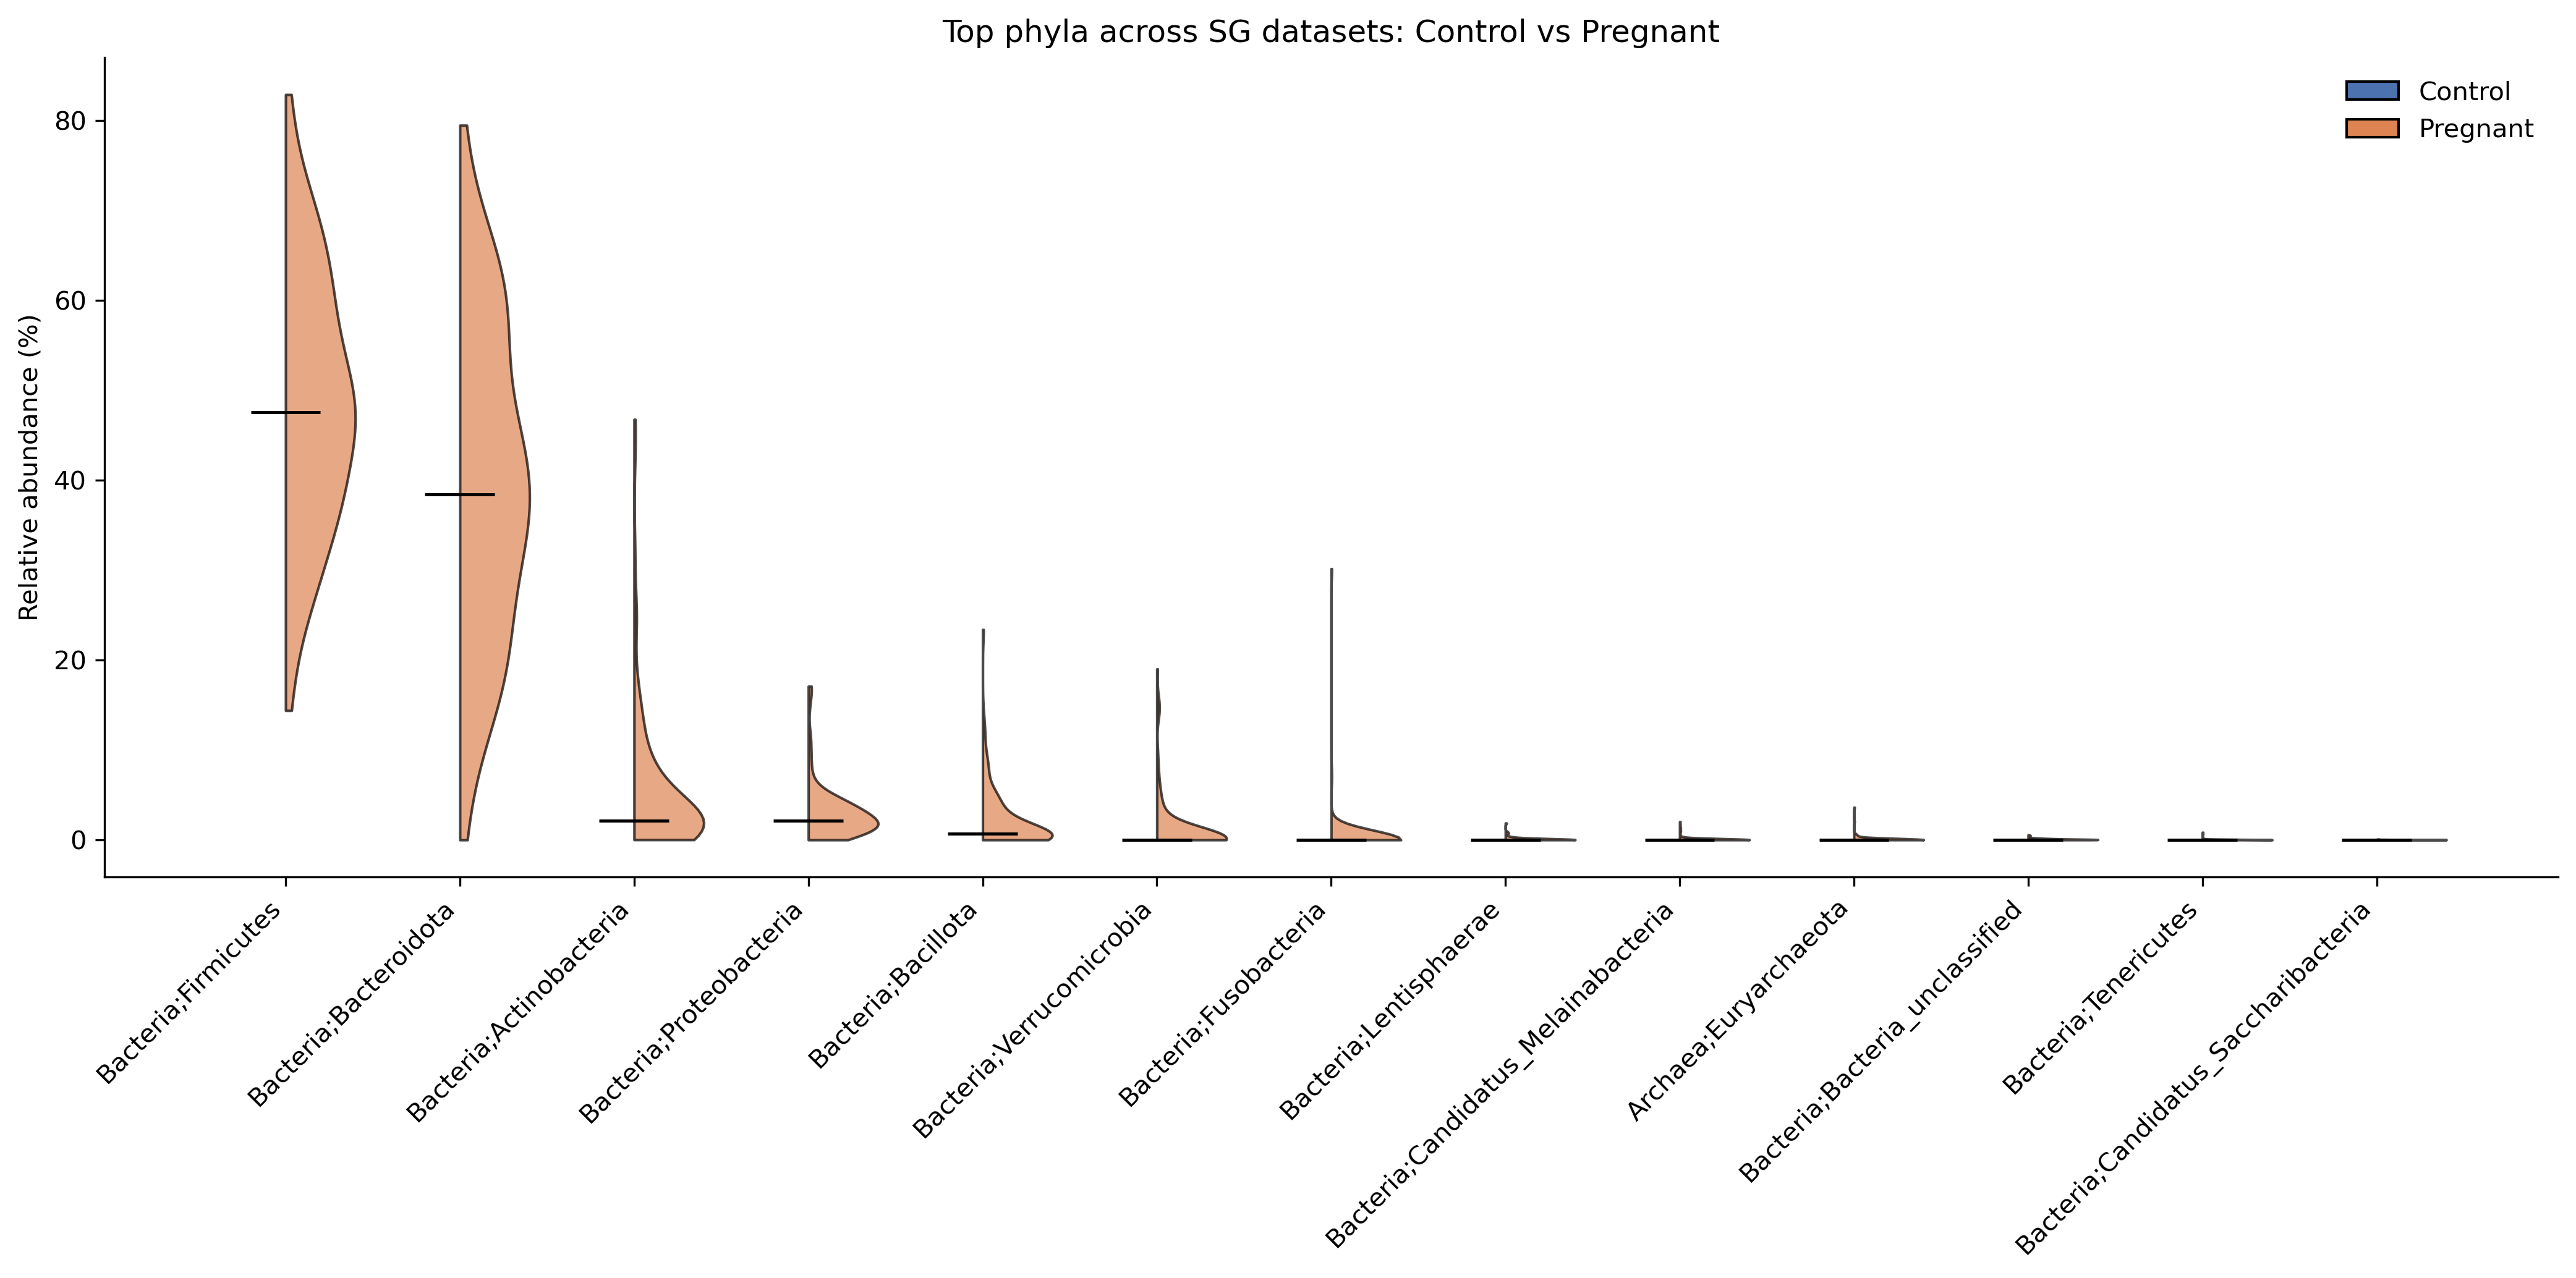
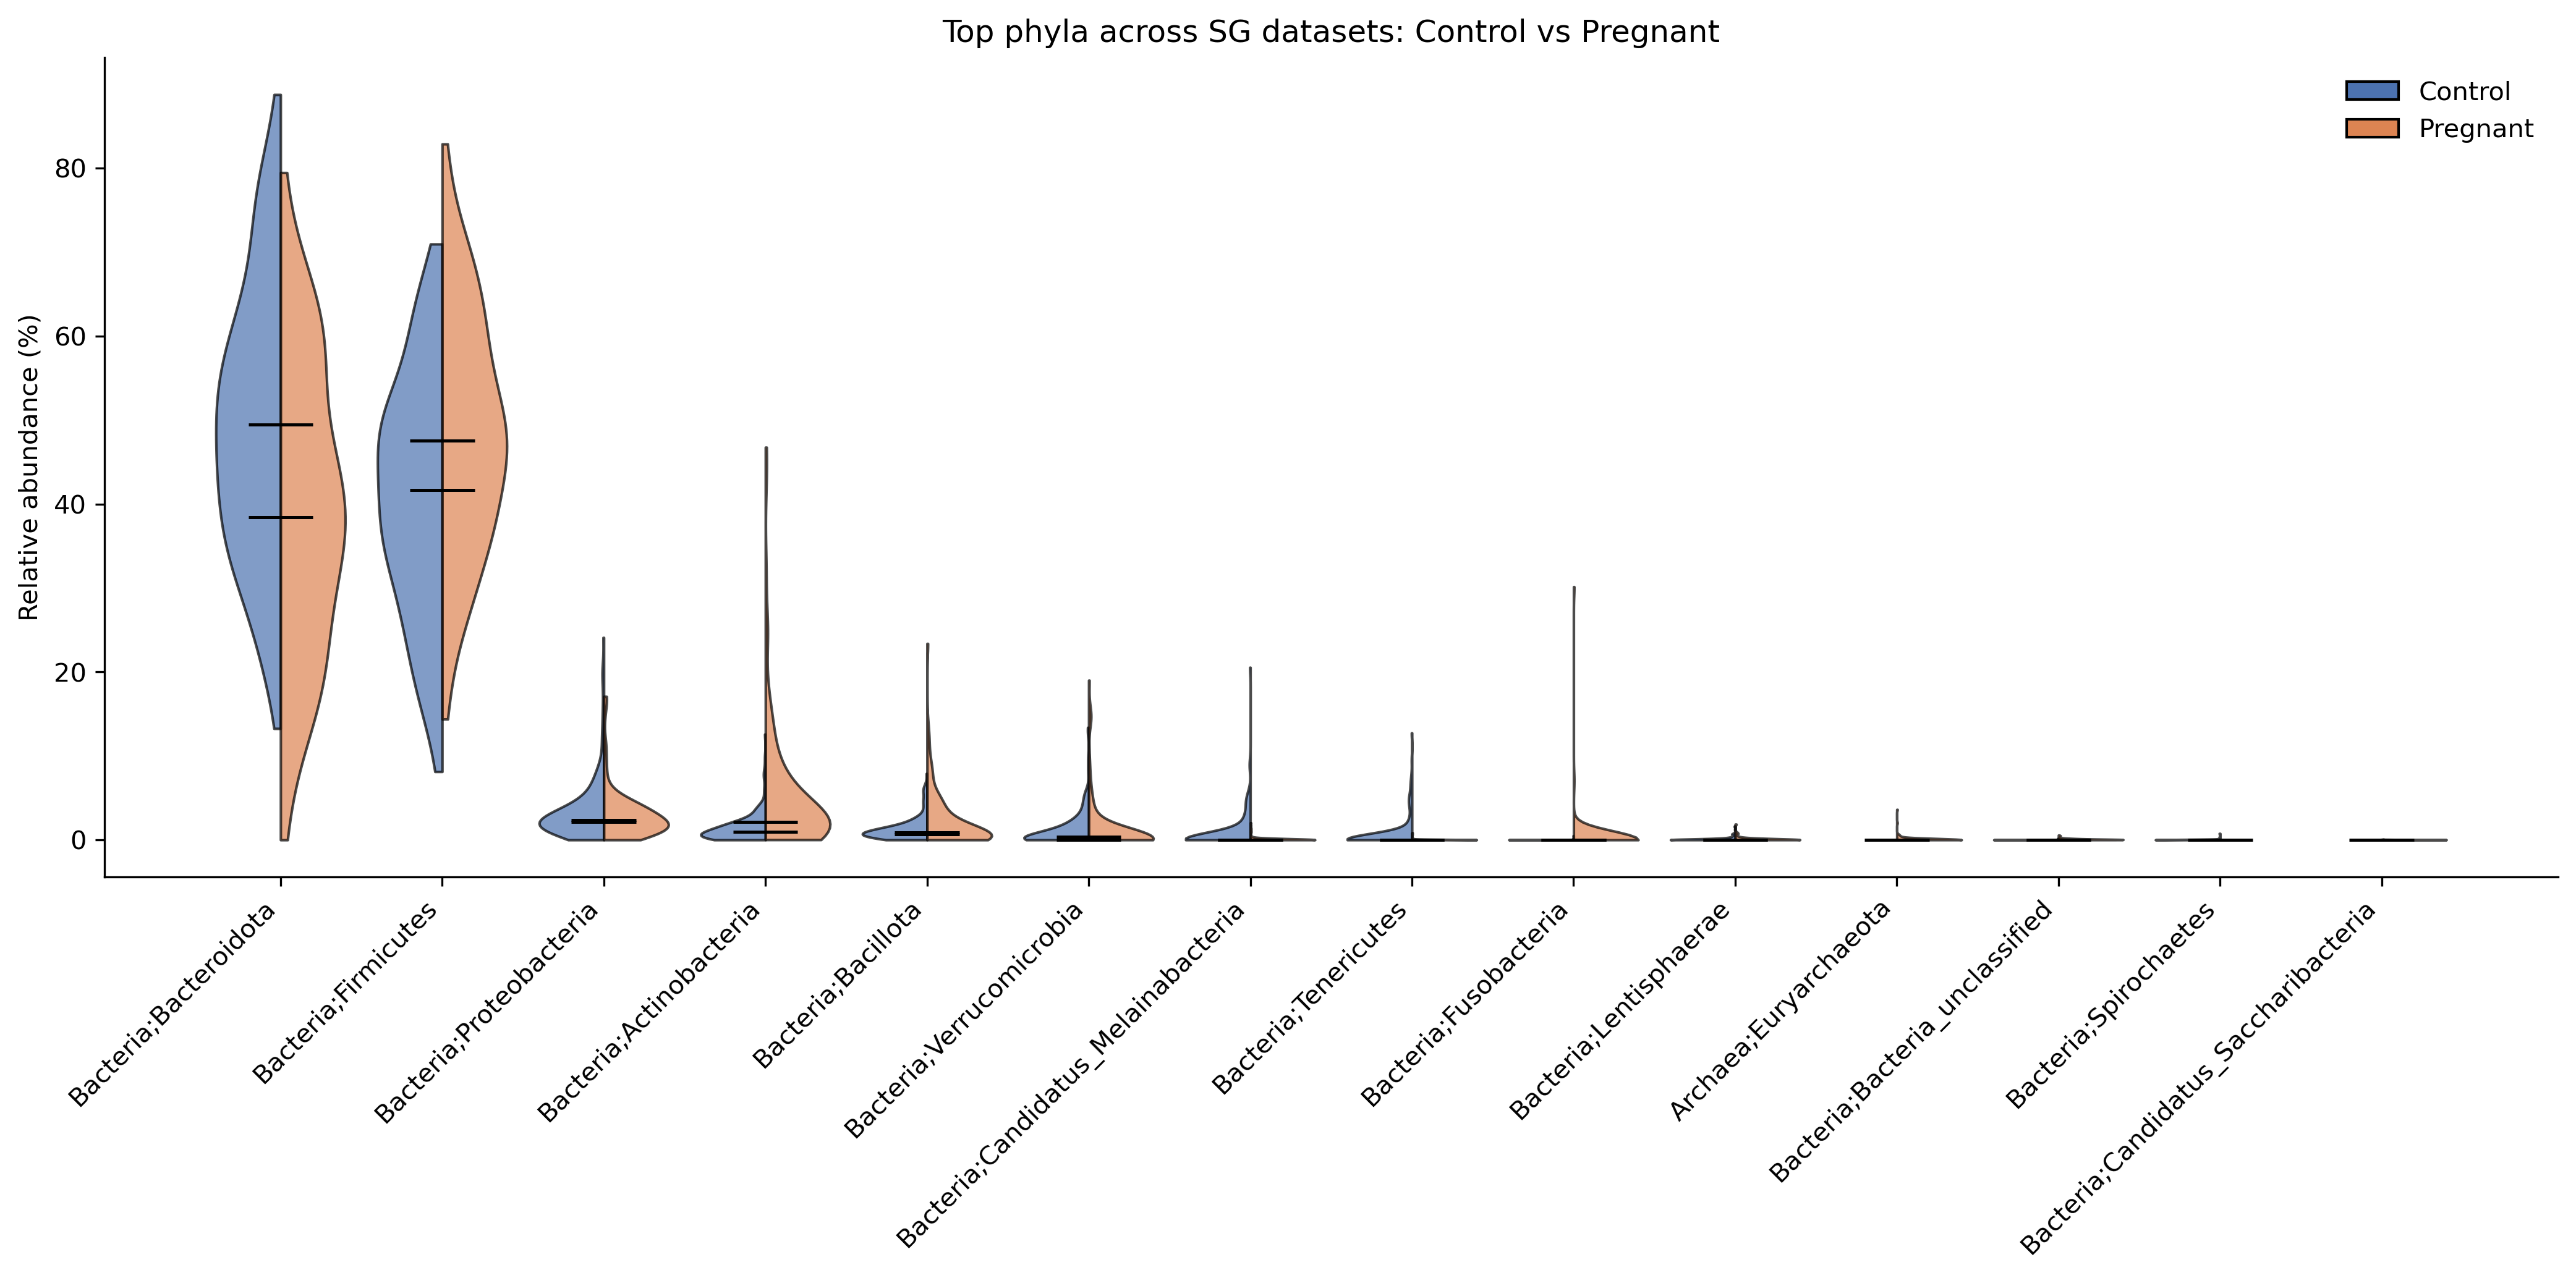
one more DS added

diff --git a/1_set_cols_per_ds.py b/1_set_cols_per_ds.py
@@ -13,8 +13,8 @@ import pandas as pd
 import os
 
 # ===== SETTINGS =====
-file_path = r"Yoram_Omri_Preg/datasets_after_yamas/ERP020710_Pregnant_SG.csv"
-group_value = "Pregnant"   # or "Control"
+file_path = r"Yoram_Omri_Preg/datasets_after_yamas/PRJEB37731_Control_SG.csv"
+group_value = "Control"   # or "Control"
 
 # ===== LOAD =====
 df = pd.read_csv(file_path, skiprows=1, sep=",")

diff --git a/fig_1C.py b/fig_1C.py
@@ -55,7 +55,7 @@ all_data = pd.concat(all_data, ignore_index=True)
 
 
 # ======================
-# ציור הפיגר
+# create figure
 # ======================
 fig, ax = plt.subplots(figsize=(10, 6))
 

diff --git a/README.md b/README.md
@@ -25,12 +25,14 @@
 # Projects Overview
 
 | Project Name | Group    | Type | Country | # Samples | 
-|--------------|----------|------|---------|---------|
-| PRJNA1247940 | Pregnant | WGS  | China   |  74     |
+|--------------|----------|------|---------|--------|
+| PRJNA1247940 | Pregnant | WGS  | China   |  74    |
 | ERP020710    | Pregnant | WGS  | China   |  55    |
+| PRJNA1254708 | Pregnant | 16S  | China   |  63    |
+|--------------|----------|------|---------|---------|
 | PRJEB37731   | Control  | WGS  | Denmark |  160   |
 | PRJNA48479   | Control  | WGS  | USA     |  100   |    
-| PRJNA1067170 | Control  | WGS  | USA     |   124  |    
+| PRJNA1067170 | Control  | WGS  | USA     |  124   |    
 | PRJNA669650  | Control  | 16S  | Finland |  208   |    
 | PRJNA547806  | Control  | 16S  | USA     |  90    |    
 | PRJNA388263  | Control  | 16S  | USA     |  400   |    